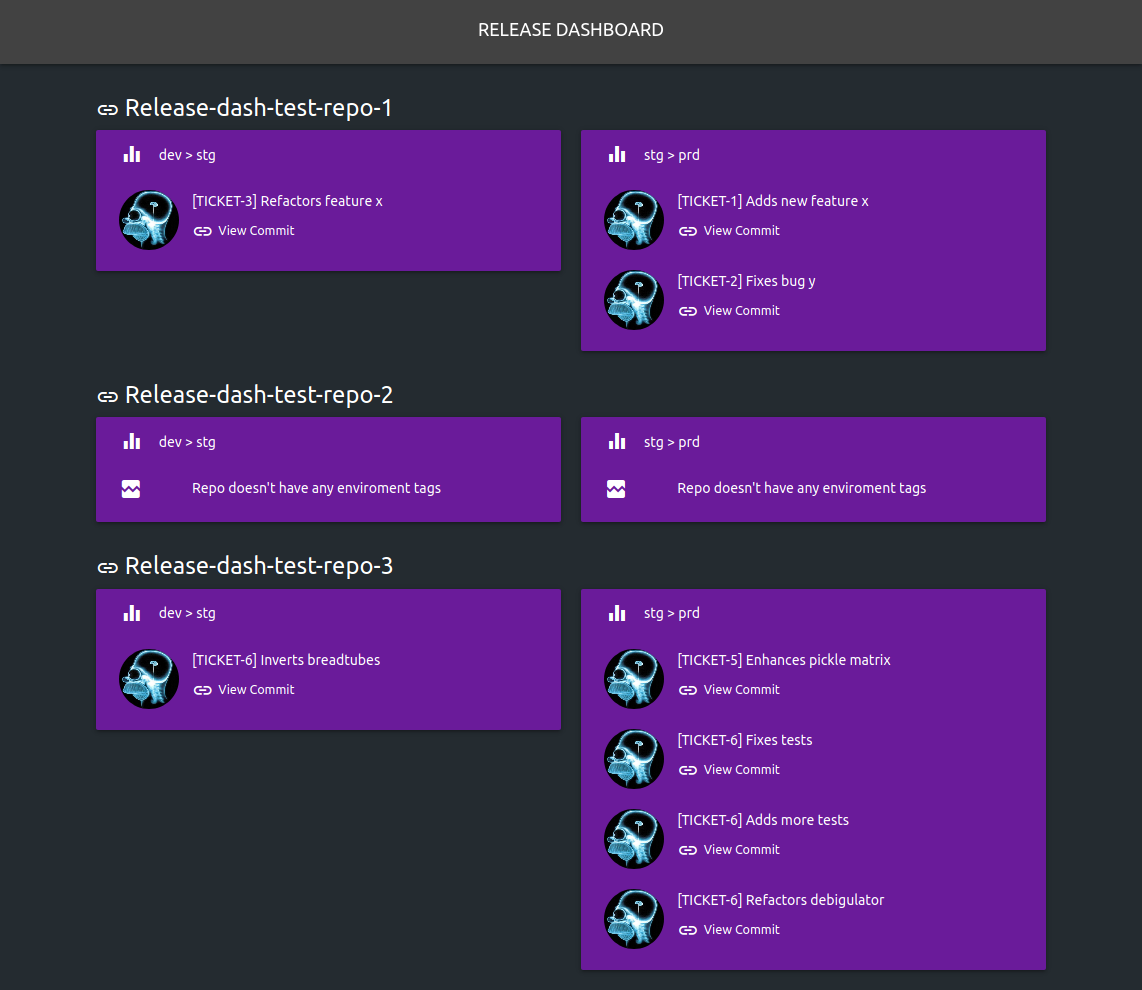
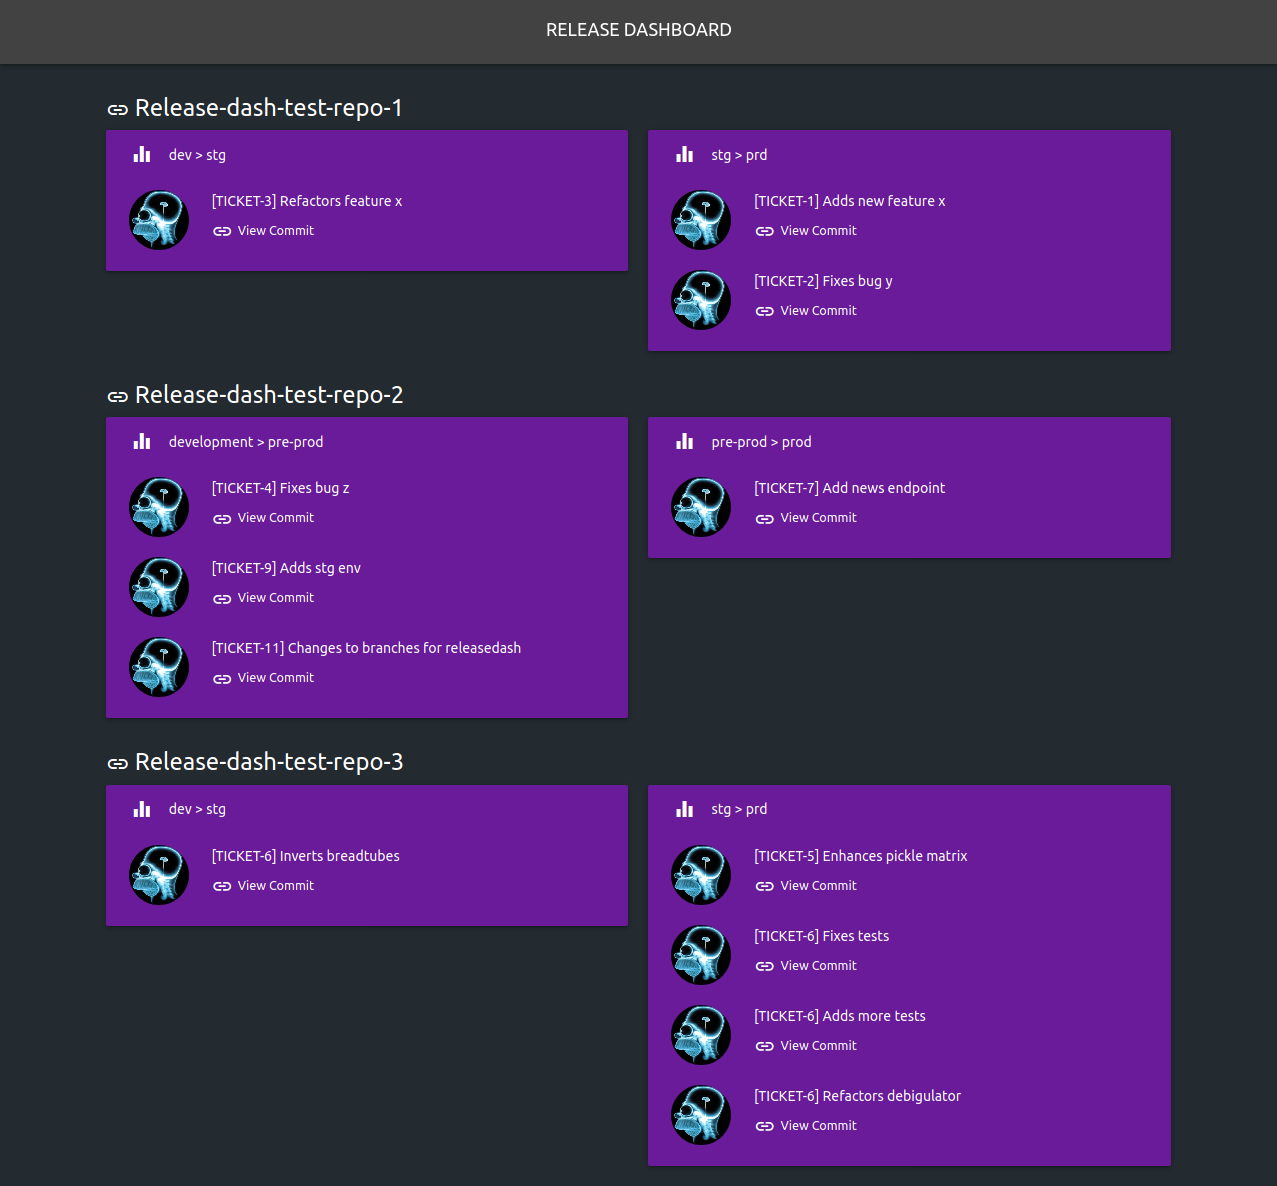
Updated README and screenshot with branch diffs

diff --git a/README.md b/README.md
@@ -16,19 +16,21 @@ environment to another.
 
 The dashboard requires a Github PAT to run, any repo that the PAT has read access to
 will be inspected, if a ```.releasedash.yml``` file is found in the root of the repo
-then it will appear on the board. For each repo a list of tags is supplied via the
-```.releasedash.yml``` config file, these tags are diffed to produce a changelog.
+then it will appear on the board. For each repo a list of tags or branches is supplied
+via the ```.releasedash.yml``` config file, these tags/branches are diffed to produce
+a changelog of commits.
 
 ## Useful links
 
 * [Demo site](https://dash.techpunch.co.uk/)
 * [Docker images](https://hub.docker.com/r/lobsterdore/release-dash)
-* [Example of a registered repo](https://github.com/lobsterdore/release-dash-test-repo-1)
+* [Example of a registered repo with tags](https://github.com/lobsterdore/release-dash-test-repo-1)
+* [Example of a registered repo with branches](https://github.com/lobsterdore/release-dash-test-repo-2)
 
 ## Use case
 
 This dashboard is intended to show developers, and potentially people that manage
-developers, commits that are sitting in environments waiting to be released, it's useful for:
+developers, commits that are sitting in environments waiting to be released. It's useful for:
 
 * Ensuring that commits are pushed to production regularly
 * Showing a pile up of unreleased commits
@@ -38,10 +40,10 @@ The dashboard makes an assumption that the commit history of your repos is reada
 other than the developer that committed a given change, some discipline is required on the part
 of committers to produce legible messages.
 
-The dashboard will show all commits between environments, so this will include features, chores,
-tech debt and bug fixes, this makes the dashboard an internal tool only since it will show
-commits that are not useful for people that have no investment in the inner workings of a project
-and it's repository.
+The dashboard will show all commits between tags/branches, this will include features, chores,
+tech debt and bug fixes, this makes the dashboard suitable as an internal tool only since it will
+show commits that are not useful for people that have no investment in the inner workings of a
+project and it's repository.
 
 ## How to run
 
@@ -60,10 +62,16 @@ direnv allow
 docker run -dit -e GITHUB_PAT -p 8080:8080 lobsterdore/release-dash:[VERSION]
 ```
 
-### Kubes
+### Kubernetes
 
 A [basic helm chart](https://github.com/lobsterdore/release-dash-helm) is available
-for running on Kubernetes.
+for running on Kubes.
+
+### Binary releases
+
+Download a OS specific binary from
+[https://github.com/lobsterdore/release-dash/releases](https://github.com/lobsterdore/release-dash/releases),
+you will need to setup environment vars as appropriate for the target OS.
 
 ### Native
 
@@ -107,8 +115,8 @@ be met:
 
 * Readable via the Github Personal Access Token supplied to the dashboard
 * A file called '.releasedash.yml' exists in the repos root with a list of
-environment tags
-* Environment tags must exist to perform diffs
+environment tags or environment branches
+* Environment tags or environment branches must exist to perform diffs
 
 ### Accessible via GH PAT
 
@@ -127,8 +135,17 @@ The layout of the file should be like so:
 
 ```YAML
 ---
+# Using tags for the changelog diffs
 
 environment_tags: [ LIST OF ENVIRONMENT TAGS ]
+name: [NAME OF SERVICE ON DASHBOARD]
+```
+
+```YAML
+---
+# Using branches for the changelog diffs
+
+environment_branches: [ LIST OF ENVIRONMENT TAGS ]
 name: [NAME OF SERVICE ON DASHBOARD]
 ```
 
@@ -144,36 +161,51 @@ environment_tags:
 name: release-dash-test-repo-1
 ```
 
-The ```environment_tags``` list powers the changelog, the release dash will do
-a diff between each tag starting from the first one. In the example above the
-release dash will display the following diffs:
+```YAML
+---
+
+environment_branches:
+  - development
+  - pre-prod
+  - prod
+name: release-dash-test-repo-2
+```
+
+The ```environment_tags``` and ```environment_branches``` lists power the
+changelog, the release dash will do a diff between each tag/branch starting from
+the first one. In the examples above the release dash will display the following
+diffs:
 
 ```BASH
 dev -> stg
 stg -> prd
 ```
 
+```BASH
+development -> pre-prod
+pre-prod -> prod
+```
+
 The changelog for all repos is fetched via a background task on a regular tick
 interval which can be controlled via the ```GITHUB_CHANGELOG_FETCH_TIMER_SECONDS```
 env var in [config/configuration.go](config/configuration.go)).
 
-### Diffs via environment tags
+### Diffs via environment tags or environment branches
 
 As noted in the [Configuration via .releasedash.yml](#configuration-via-releasedashyml)
-section, tags are used to perform diffs between different environments, this
+section, tags/branches are used to perform diffs between different environments, this
 diff is then used to show any changes that are in place between environments for a
 service repo.
 
-Each environment should have a tag in each repository registered with the release-dash,
+Each environment should have a tag or branch in each repository registered with the release-dash,
 for example your dev environment should have a 'dev' tag in each repo, this tag should
-match the commit hash of the version that is deployed to a given environment. For example
-if you just deployed hash bb5ac8 to dev then your dev tag should point to bb5ac8. These
-tags allow for easy diffing between environments without having to know which version
-numbers are deployed.
+match the commit hash of the version that is deployed to a given environment, if you just deployed
+hash bb5ac8 to dev then your dev tag should point to bb5ac8. These tags/branches allow for easy
+diffing between environments without having to know which version numbers are deployed.
 
-The recommended way to maintain environment tags is to force update them after a
+The recommended way to maintain environment tags/branches is to force update them after a
 deployment of a service to a given env, the flow of a release pipeline might
-look something like this:
+look something like this if environment_tags are in use:
 
 * Build and test service repo
 * Deploy service to dev environment
@@ -186,3 +218,5 @@ To force push an environment tag you can do the following:
 git tag -a -f dev v0.0.1 -m "Updating dev to v0.0.1"
 git push --force origin tag dev
 ```
+
+A similar process can be followed if environment_branches are in use for a given repo.
